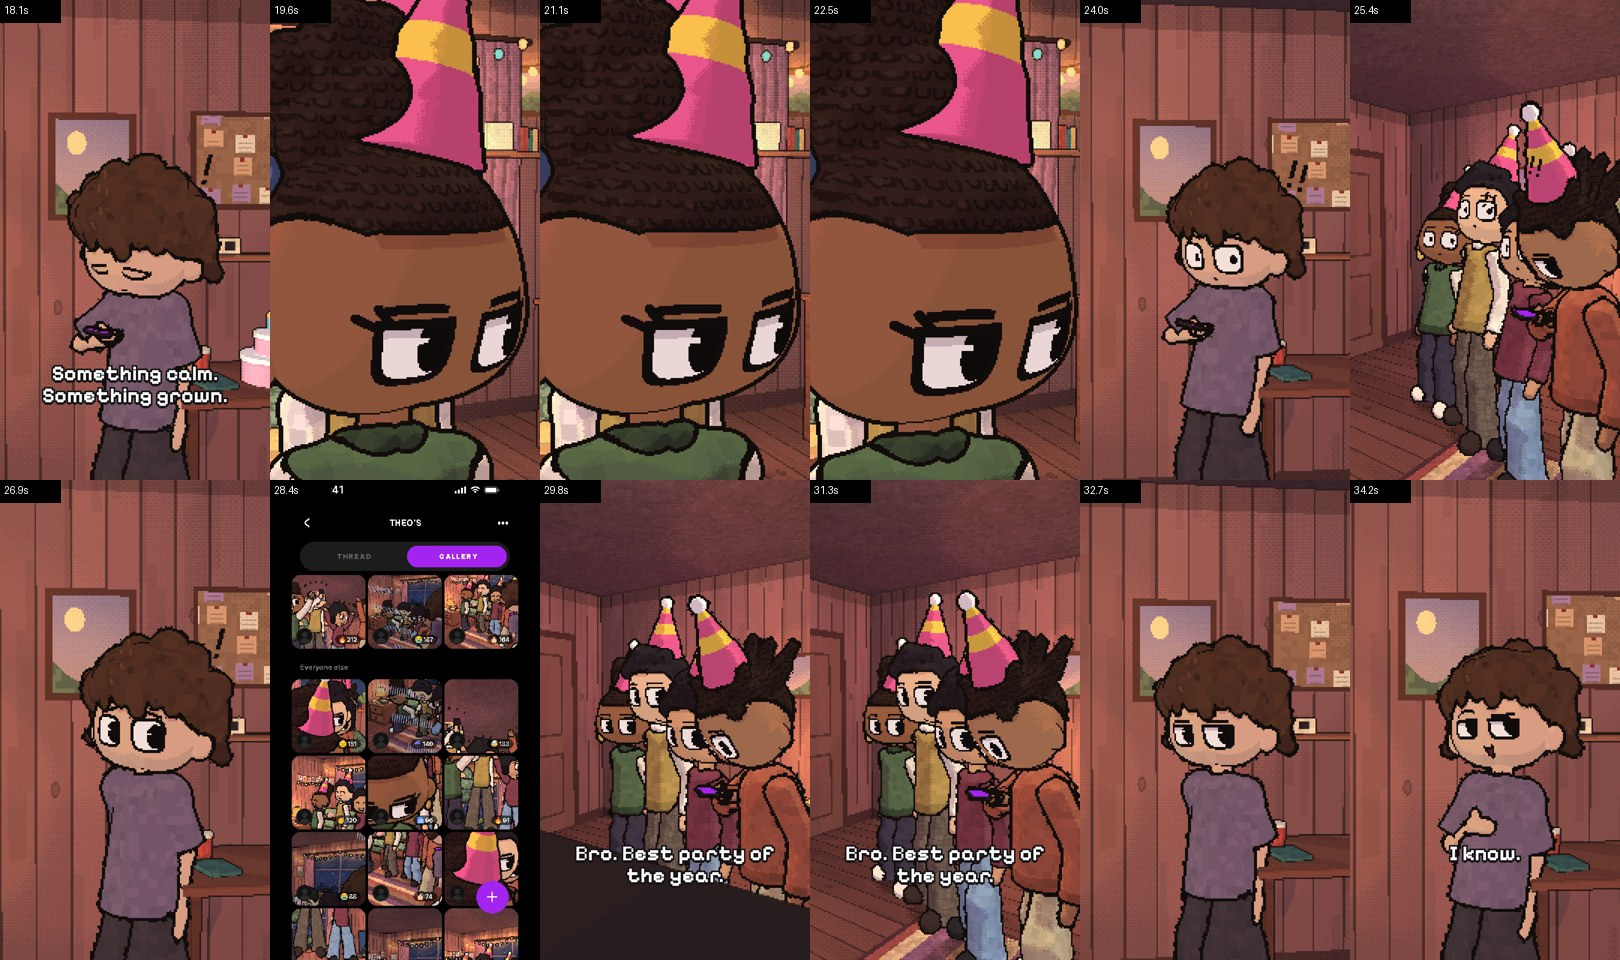
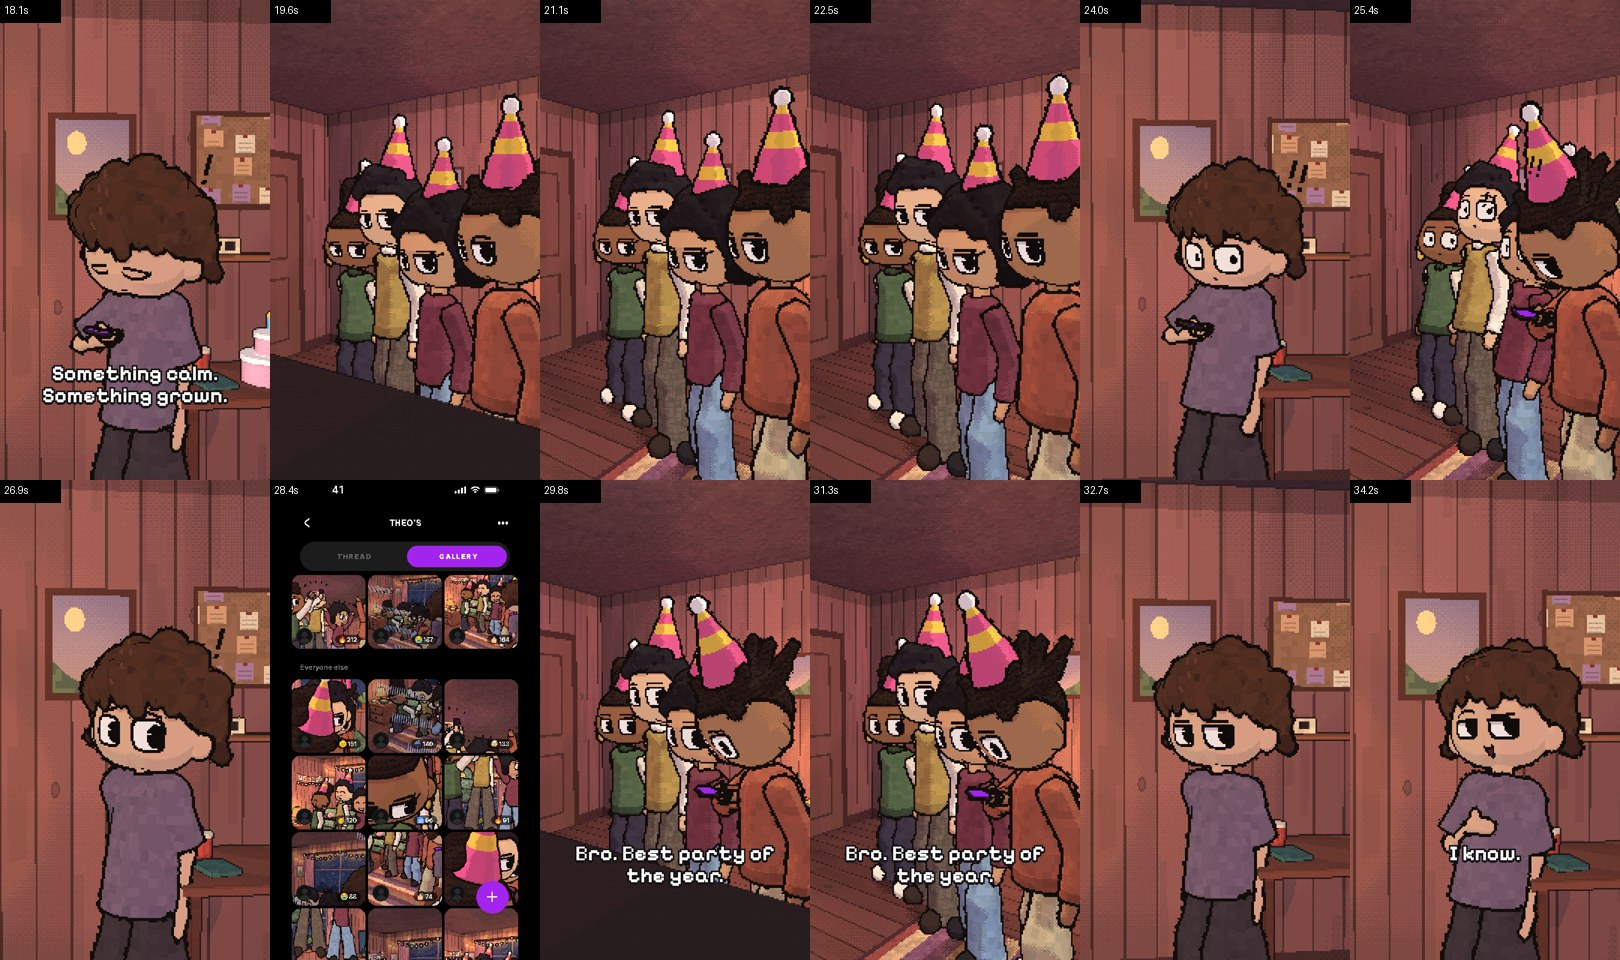
Aux: indoor rain that reads as rain
Claude-Session: https://claude.ai/code/session_019i3sgUp6puAAVeufqbiryk

Changed region(s): [[0.1543, 0.0, 0.679, 0.5]]

diff --git a/studio/anim/src/ep/Skit.tsx b/studio/anim/src/ep/Skit.tsx
@@ -55,9 +55,12 @@ const Poof: React.FC<{ at: number; x: number; y: number }> = ({ at, x, y }) => {
     return <circle key={k} cx={x + Math.cos(a) * r * 0.7} cy={y + Math.sin(a) * r * 0.55} r={r * 0.42} fill="#fbf6ee" stroke="#2a2024" strokeWidth={8} />; })}</svg>; };
 // indoor rain: streaks falling on twos, the room a little bluer
 const Rain: React.FC = () => { const f = Math.floor(useCurrentFrame() / 2) * 2;
-  return <><AbsoluteFill style={{ background: '#3a5a8a', mixBlendMode: 'multiply', opacity: 0.35 }} />
-    <svg width={1080} height={1920} style={{ position: 'absolute', left: 0, top: 0 }}>{Array.from({ length: 140 }, (_, k) => { const x = (k * 137.5) % 1080, y = ((k * 263 + f * 70) % 2100) - 100;
-      return <line key={k} x1={x} y1={y} x2={x - 10} y2={y + 70} stroke="#bcd6ff" strokeWidth={6} opacity={0.7} />; })}</svg></>; };
+  // (stranger, Nov 18: short thick white dashes read as a glitch; thin, long, blue, many, with splashes on the floor reads as rain)
+  return <><AbsoluteFill style={{ background: '#2f5590', mixBlendMode: 'multiply', opacity: 0.45 }} />
+    <svg width={1080} height={1920} style={{ position: 'absolute', left: 0, top: 0 }}>{Array.from({ length: 260 }, (_, k) => { const x = (k * 137.5) % 1080, y = ((k * 263 + f * 90) % 2200) - 200;
+      return <line key={k} x1={x} y1={y} x2={x - 14} y2={y + 150} stroke="#9fc2ff" strokeWidth={3} opacity={0.6} />; })}
+    {Array.from({ length: 40 }, (_, k) => { const x = (k * 211.3 + f * 37) % 1080, y = 1500 + ((k * 97) % 380), r = 10 + ((k + f) % 6) * 6;
+      return <ellipse key={'s' + k} cx={x} cy={y} rx={r} ry={r * 0.3} fill="none" stroke="#9fc2ff" strokeWidth={3} opacity={0.5} />; })}</svg></>; };
 // a monocle falling: a gold ring that drops from (x0, y0) to (x1, y1) in 7 frames, turning edge-on as it goes, then gone
 const Drop: React.FC<{ d: [number, number, number, number, number] }> = ({ d: [at, x0, y0, x1, y1] }) => { const f = useCurrentFrame() - at; if (f < 0 || f > 7) return null;
   const k = (f / 7) ** 2, x = x0 + (x1 - x0) * k, y = y0 + (y1 - y0) * k;

diff --git a/engine/STATE.md b/engine/STATE.md
@@ -8,7 +8,7 @@ stage: 0
 stage_card: engine/stages/0-pilot-lock.md
 next_action: Launch skits v7 (sketch approved by the founder, Nov 18) voiced and rendering: Wave Back, Group Photo, Aux and One Sip (rebuilt in the living room, the persona sips, the juice box, the PXI face-match button). Wave Back and Group Photo are BLOCKED (each failed the stranger twice, see gate_failures). Next for Aux and One Sip: av and dead checks, then the stranger on each; the ones that pass go to the founder. Office Hours stays ON HOLD. The voice medium test is experiment E6 in engine/learning.md.
 phases: PILOT_LOCK → REPLICATION (first three episodes, made from these files alone) → PRODUCTION
-gate_failures: Wave Back 2 (BLOCKED, Nov 18): the stranger failed it twice; it still cannot tell who waved at whom from the opening shots, plus a floating object over the dinner table and a dead stretch from 5.5 to 10.4 s. No third try without a founder call. Group Photo 2 (BLOCKED, Nov 18): the stranger failed it twice; it cannot tell who says the last two lines or who took the photo, and the album screen reads as a dead UI mock. Aux 0, One Sip 1 for v7.
+gate_failures: Wave Back 2 (BLOCKED, Nov 18): the stranger failed it twice; it still cannot tell who waved at whom from the opening shots, plus a floating object over the dinner table and a dead stretch from 5.5 to 10.4 s. No third try without a founder call. Group Photo 2 (BLOCKED, Nov 18): the stranger failed it twice; it cannot tell who says the last two lines or who took the photo, and the album screen reads as a dead UI mock. Aux 1, One Sip 1 for v7.
 
 ## Next render: "Office Hours" (season 1, episode 1)
 

diff --git a/episodes/launch-skits/review/aux-1/stranger.md b/episodes/launch-skits/review/aux-1/stranger.md
@@ -1,0 +1,10 @@
+# Stranger review: Aux v7, round 1 (Nov 18): FAIL
+
+Lost at 5.0s to 6.4s: the indoor rain read as glitchy white dashes over a dark pile of people (also the cover). Lost
+again at 28.4s: the album screen read as an unexplained app demo. The "dead party" read as people standing around,
+the ceiling read as jumping, so the cause and effect (each song becomes real) did not come through. "Something calm.
+Something grown." read as a tagline. Friends' faces in the queue looked off-model (heavy-lidded, darker). Best moment:
+the deadpan queue in party hats (21.1s to 22.5s).
+
+Fixes for round 2: rain drawn as thin, long, blue streaks with splashes on the floor and a bluer room; the cover is
+the queue. The approved lines stay.
